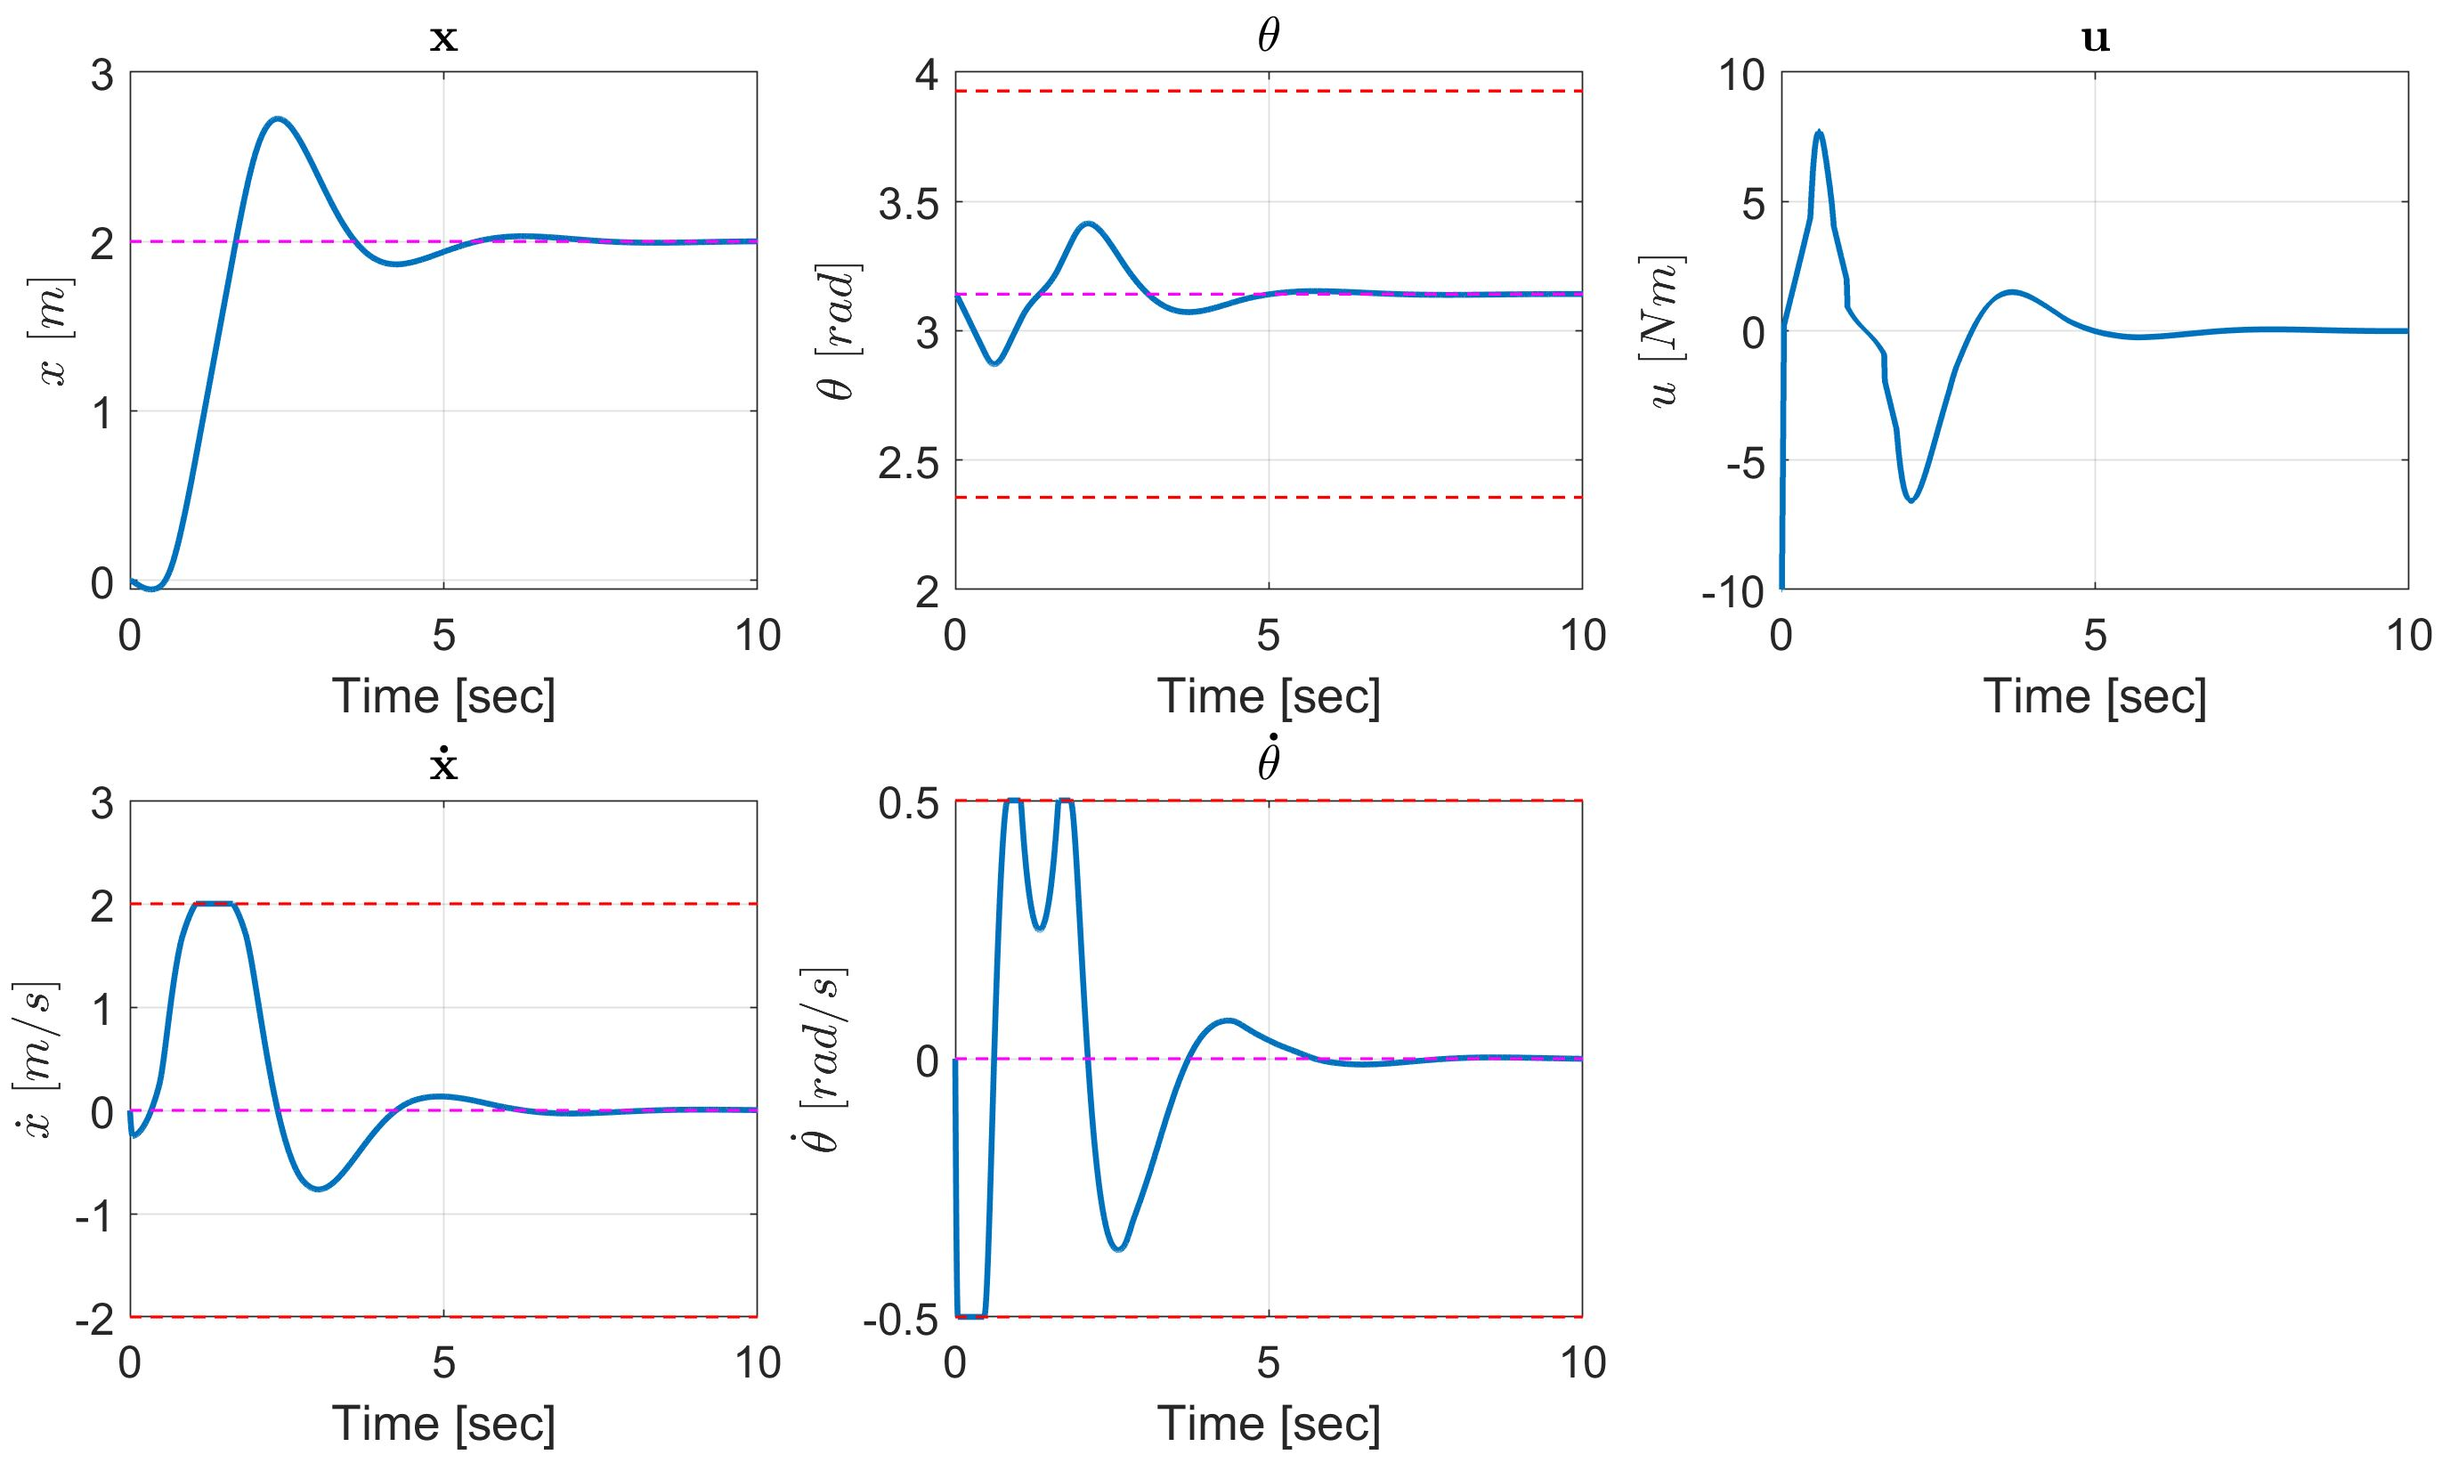
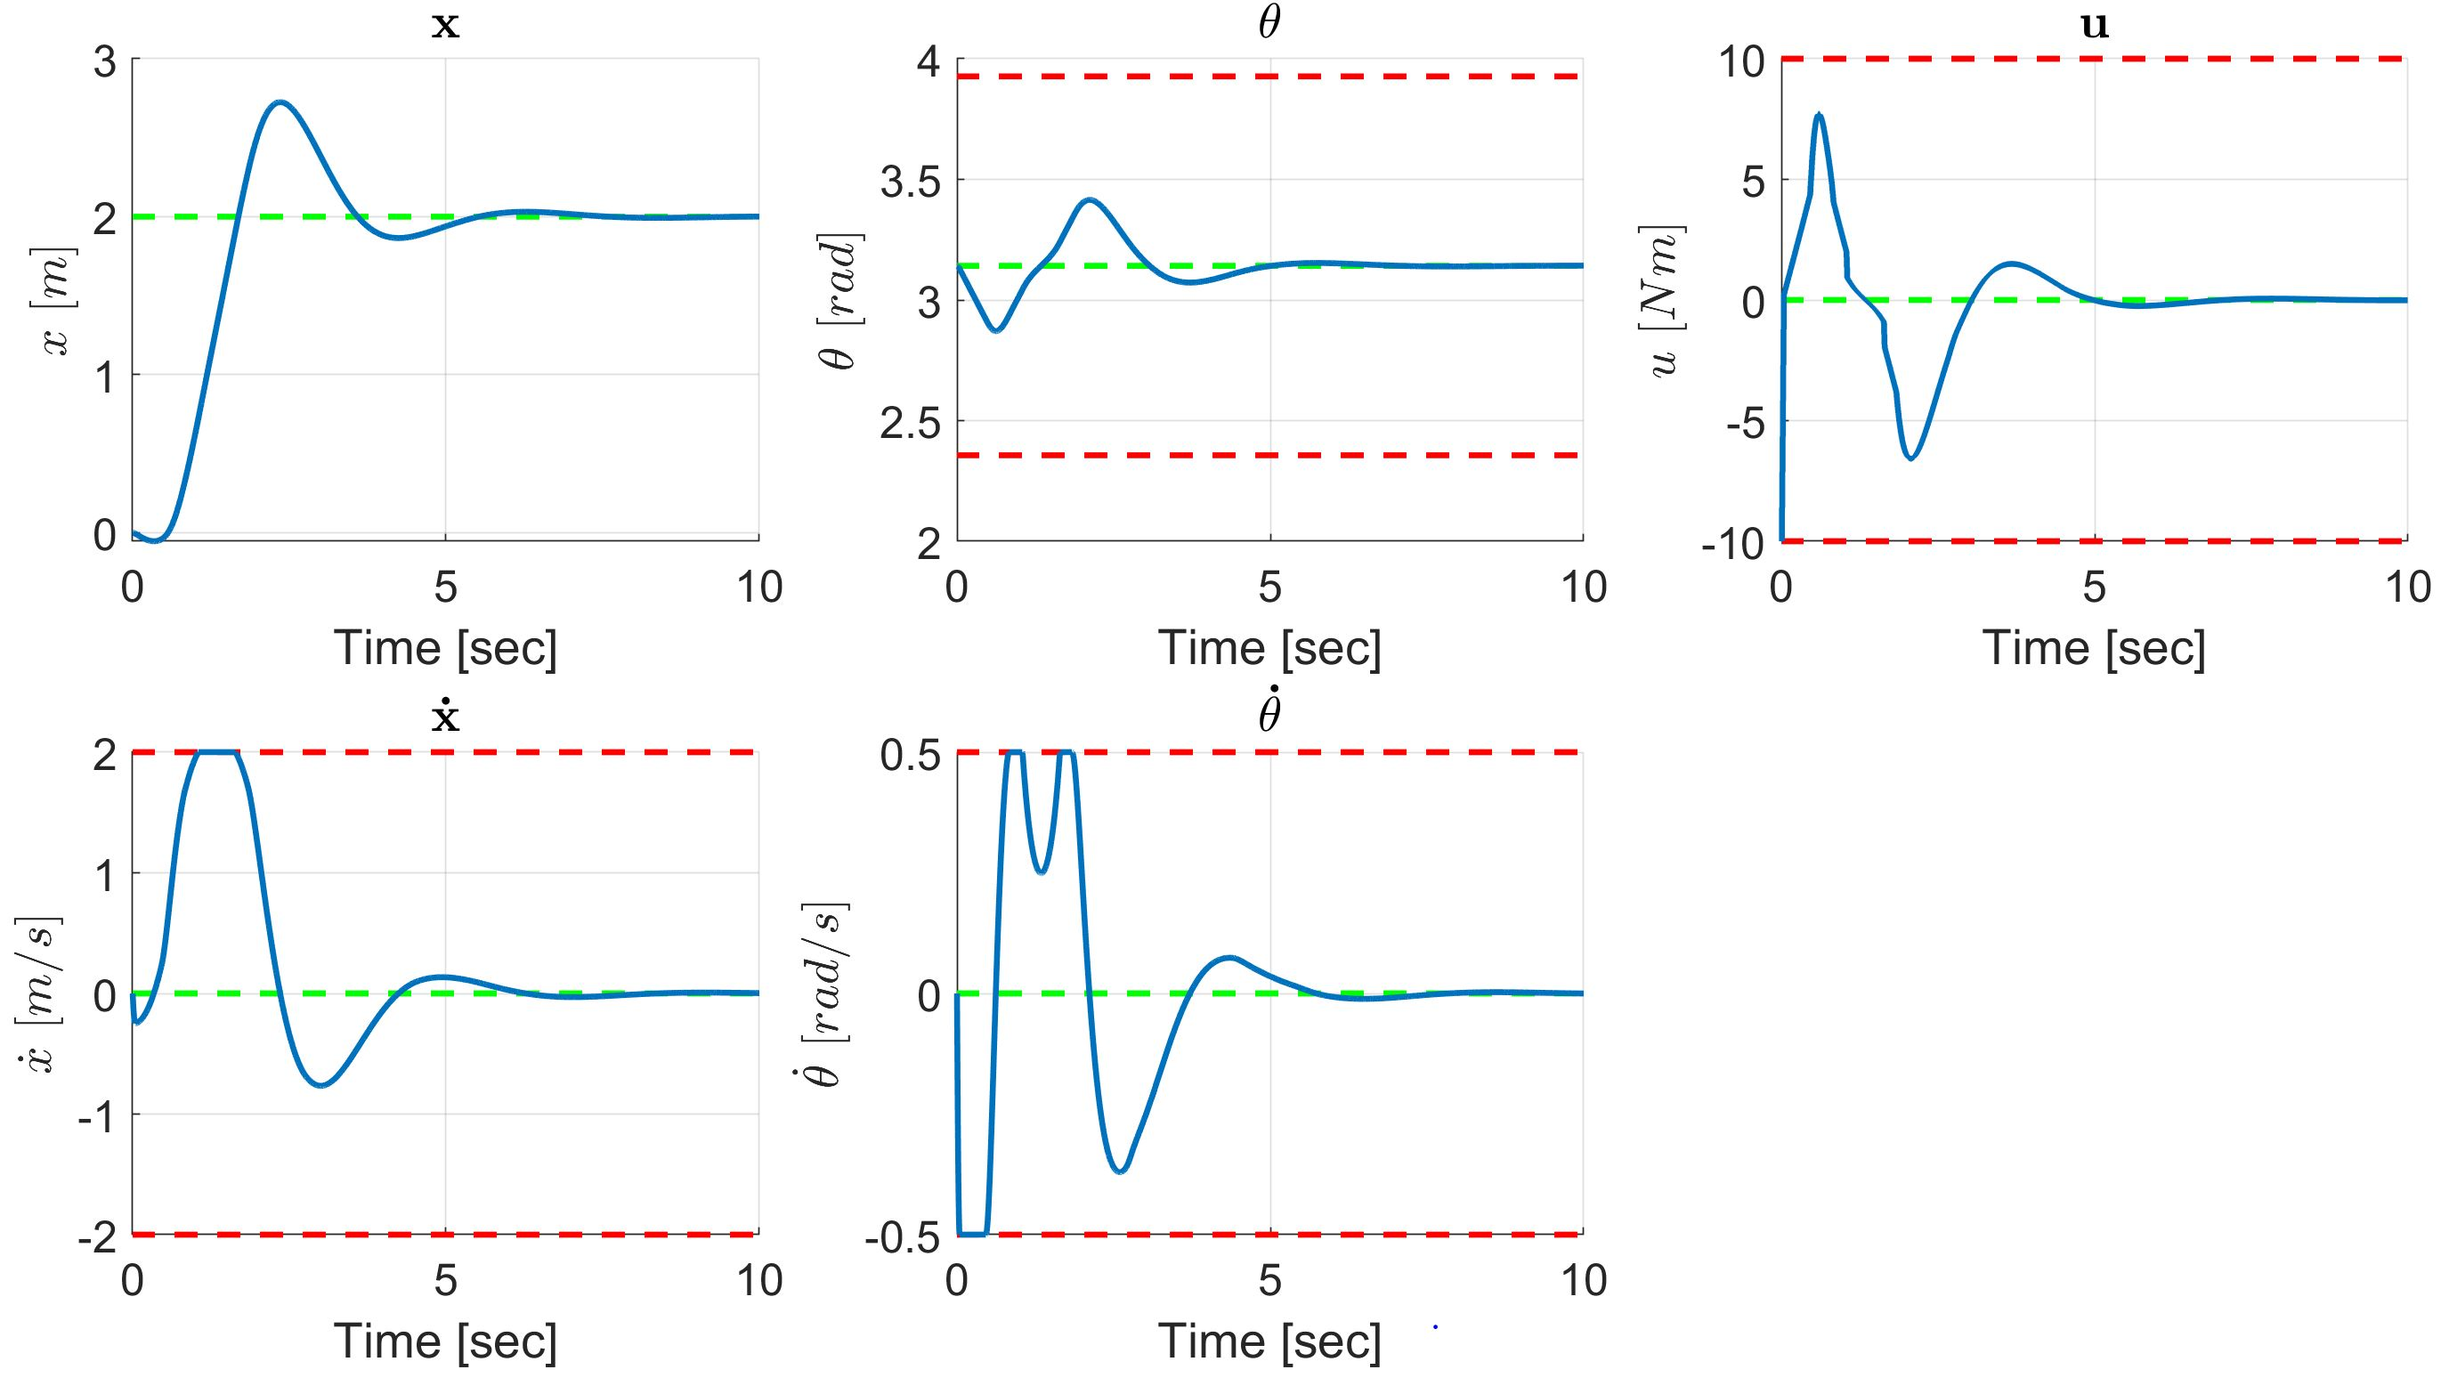
Fixed cartpole plots

diff --git a/mpc_code/cartpole/cartpole_trajectory_multishooting.m b/mpc_code/cartpole/cartpole_trajectory_multishooting.m
@@ -215,43 +215,45 @@ end
 
 if true
     sz = 15;
+    width = 2;
     figure
     subplot(2,3,1);
-    plot(t,x_traj(1,:),'LineWidth',2); title('$\mathbf{x}$','interpreter','latex','FontSize',sz); grid on;
-    hold on; plot(t(1:mpciter),X_REF_Original(1,1:mpciter),'LineStyle','-','color','m','LineWidth',1); xlim([0 sim_time]);
-    hold on; line([0 sim_time],[args.lbx(1) args.lbx(1)],'LineStyle','--','color','r','LineWidth',1);
-    hold on; line([0 sim_time],[args.ubx(1) args.ubx(1)],'LineStyle','--','color','r','LineWidth',1);
+    plot(t(1:mpciter),X_REF_Original(1,1:mpciter),'LineStyle','--','color','g','LineWidth',width); xlim([0 sim_time]);
+    hold on; line([0 sim_time],[args.lbx(1) args.lbx(1)],'LineStyle','--','color','r','LineWidth',width);
+    hold on; line([0 sim_time],[args.ubx(1) args.ubx(1)],'LineStyle','--','color','r','LineWidth',width);
+    hold on; plot(t,x_traj(1,:),'LineWidth',width,'color',[0, 0.4470, 0.7410]); title('$\mathbf{x}$','interpreter','latex','FontSize',sz); grid on;
     xlabel('Time [sec]'); ylabel('$x\ [m]$','interpreter','latex');
     set(gca,'FontSize',sz)
     
     subplot(2,3,2);
-    plot(t,x_traj(2,:),'LineWidth',2); title('$\mathbf{\theta}$','interpreter','latex','FontSize',sz); grid on;
-    hold on; plot(t(1:mpciter),X_REF_Original(2,1:mpciter),'LineStyle','-','color','m','LineWidth',1); xlim([0 sim_time]);
-    hold on; line([0 sim_time],[args.lbx(2) args.lbx(2)],'LineStyle','--','color','r','LineWidth',1)
-    hold on; line([0 sim_time],[args.ubx(2) args.ubx(2)],'LineStyle','--','color','r','LineWidth',1)
+    plot(t(1:mpciter),X_REF_Original(2,1:mpciter),'LineStyle','--','color','g','LineWidth',width); xlim([0 sim_time]);
+    hold on; line([0 sim_time],[args.lbx(2) args.lbx(2)],'LineStyle','--','color','r','LineWidth',width)
+    hold on; line([0 sim_time],[args.ubx(2) args.ubx(2)],'LineStyle','--','color','r','LineWidth',width)
+    hold on; plot(t,x_traj(2,:),'LineWidth',width,'color',[0, 0.4470, 0.7410]); title('$\mathbf{\theta}$','interpreter','latex','FontSize',sz); grid on;
     xlabel('Time [sec]');ylabel('$\theta\ [rad]$','interpreter','latex');
     set(gca,'FontSize',sz)
     
     subplot(2,3,4);
-    plot(t,x_traj(3,:),'LineWidth',2); title('$\mathbf{\dot{x}}$','interpreter','latex','FontSize',sz); grid on;
-    hold on; plot(t(1:mpciter),X_REF_Original(3,1:mpciter),'LineStyle','-','color','m','LineWidth',1); xlim([0 sim_time]);
-    hold on; line([0 sim_time],[args.lbx(3) args.lbx(3)],'LineStyle','--','color','r','LineWidth',1)
-    hold on; line([0 sim_time],[args.ubx(3) args.ubx(3)],'LineStyle','--','color','r','LineWidth',1)
+    plot(t(1:mpciter),X_REF_Original(3,1:mpciter),'LineStyle','--','color','g','LineWidth',width); xlim([0 sim_time]);
+    hold on; line([0 sim_time],[args.lbx(3) args.lbx(3)],'LineStyle','--','color','r','LineWidth',width)
+    hold on; line([0 sim_time],[args.ubx(3) args.ubx(3)],'LineStyle','--','color','r','LineWidth',width)
+    hold on; plot(t,x_traj(3,:),'LineWidth',width,'color',[0, 0.4470, 0.7410]); title('$\mathbf{\dot{x}}$','interpreter','latex','FontSize',sz); grid on;
     xlabel('Time [sec]'); ylabel('$\dot{x}\ [m/s]$','interpreter','latex');
     set(gca,'FontSize',sz)
     
     subplot(2,3,5);
-    plot(t,x_traj(4,:),'LineWidth',2); title('$\mathbf{\dot{\theta}}$','interpreter','latex','FontSize',sz); grid on;
-    hold on; plot(t(1:mpciter),X_REF_Original(4,1:mpciter),'LineStyle','-','color','m','LineWidth',1); xlim([0 sim_time]);
-    hold on; line([0 sim_time],[args.lbx(4) args.lbx(4)],'LineStyle','--','color','r','LineWidth',1)
-    hold on; line([0 sim_time],[args.ubx(4) args.ubx(4)],'LineStyle','--','color','r','LineWidth',1)
+    plot(t(1:mpciter),X_REF_Original(4,1:mpciter),'LineStyle','--','color','g','LineWidth',width); xlim([0 sim_time]);
+    hold on; line([0 sim_time],[args.lbx(4) args.lbx(4)],'LineStyle','--','color','r','LineWidth',width)
+    hold on; line([0 sim_time],[args.ubx(4) args.ubx(4)],'LineStyle','--','color','r','LineWidth',width)
+    hold on; plot(t,x_traj(4,:),'LineWidth',width,'color',[0, 0.4470, 0.7410]); title('$\mathbf{\dot{\theta}}$','interpreter','latex','FontSize',sz); grid on;
     xlabel('Time [sec]'); ylabel('$\dot{\theta}\ [rad/s]$','interpreter','latex');
     set(gca,'FontSize',sz);
     
     subplot(2,3,3);
-    stairs(t(1:end-1),u_cl,'LineWidth',2); title('$\mathbf{u}$','interpreter','latex','FontSize',sz); grid on;
-    hold on; plot(t(1:mpciter),U_REF_Original(1,1:mpciter),'LineStyle','-','color','m','LineWidth',1)
-    hold on; line([0 sim_time],[args.ubx(5) args.ubx(5)],'LineStyle','--','color','r','LineWidth',1)
+    plot(t(1:mpciter),U_REF_Original(1,1:mpciter),'LineStyle','--','color','g','LineWidth',width)
+    hold on; line([0 sim_time],[u_min u_min],'LineStyle','--','color','r','LineWidth',width)
+    hold on; line([0 sim_time],[u_max u_max],'LineStyle','--','color','r','LineWidth',width)
+    hold on; stairs(t(1:end-1),u_cl,'LineWidth',width,'color',[0, 0.4470, 0.7410]); title('$\mathbf{u}$','interpreter','latex','FontSize',sz); grid on;
     xlabel('Time [sec]'); ylabel('$u\ [Nm]$','interpreter','latex');
     set(gca,'FontSize',sz)
     set(gcf,'color','w');

diff --git a/mpc_code/cartpole/cartpole_regulator_multishooting.m b/mpc_code/cartpole/cartpole_regulator_multishooting.m
@@ -182,41 +182,43 @@ end
 if true
     figure
     subplot(2,3,1);
-    plot(t,x_traj(1,:),'LineWidth',2); title('$\mathbf{x}$','interpreter','latex','FontSize',sz); grid on;
-    hold on; line([0 sim_time],[xs(1) xs(1)],'LineStyle','--','color','m','LineWidth',1); xlim([0 sim_time]);
-    hold on; line([0 sim_time],[args.lbx(1) args.lbx(1)],'LineStyle','--','color','r','LineWidth',1);
-    hold on; line([0 sim_time],[args.ubx(1) args.ubx(1)],'LineStyle','--','color','r','LineWidth',1);
+    line([0 sim_time],[xs(1) xs(1)],'LineStyle','--','color','g','LineWidth',2); xlim([0 sim_time]);
+    hold on; line([0 sim_time],[args.lbx(1) args.lbx(1)],'LineStyle','--','color','r','LineWidth',2);
+    hold on; line([0 sim_time],[args.ubx(1) args.ubx(1)],'LineStyle','--','color','r','LineWidth',2);
+    hold on; plot(t,x_traj(1,:),'LineWidth',2); title('$\mathbf{x}$','interpreter','latex','FontSize',sz); grid on;
     xlabel('Time [sec]'); ylabel('$x\ [m]$','interpreter','latex');
     set(gca,'FontSize',sz)
     
     subplot(2,3,2);
-    plot(t,x_traj(2,:),'LineWidth',2); title('$\mathbf{\theta}$','interpreter','latex','FontSize',sz); grid on;
-    hold on; line([0 sim_time],[xs(2) xs(2)],'LineStyle','--','color','m','LineWidth',1); xlim([0 sim_time]);
-    hold on; line([0 sim_time],[args.lbx(2) args.lbx(2)],'LineStyle','--','color','r','LineWidth',1)
-    hold on; line([0 sim_time],[args.ubx(2) args.ubx(2)],'LineStyle','--','color','r','LineWidth',1)
+    line([0 sim_time],[xs(2) xs(2)],'LineStyle','--','color','g','LineWidth',2); xlim([0 sim_time]);
+    hold on; line([0 sim_time],[args.lbx(2) args.lbx(2)],'LineStyle','--','color','r','LineWidth',2)
+    hold on; line([0 sim_time],[args.ubx(2) args.ubx(2)],'LineStyle','--','color','r','LineWidth',2)
+    hold on; plot(t,x_traj(2,:),'LineWidth',2); title('$\mathbf{\theta}$','interpreter','latex','FontSize',sz); grid on;
     xlabel('Time [sec]');ylabel('$\theta\ [rad]$','interpreter','latex');
     set(gca,'FontSize',sz)
     
     subplot(2,3,4);
-    plot(t,x_traj(3,:),'LineWidth',2); title('$\mathbf{\dot{x}}$','interpreter','latex','FontSize',sz); grid on;
-    hold on; line([0 sim_time],[xs(3) xs(3)],'LineStyle','--','color','m','LineWidth',1); xlim([0 sim_time]);
-    hold on; line([0 sim_time],[args.lbx(3) args.lbx(3)],'LineStyle','--','color','r','LineWidth',1)
-    hold on; line([0 sim_time],[args.ubx(3) args.ubx(3)],'LineStyle','--','color','r','LineWidth',1)
+    line([0 sim_time],[xs(3) xs(3)],'LineStyle','--','color','g','LineWidth',2); xlim([0 sim_time]);
+    hold on; line([0 sim_time],[args.lbx(3) args.lbx(3)],'LineStyle','--','color','r','LineWidth',2)
+    hold on; line([0 sim_time],[args.ubx(3) args.ubx(3)],'LineStyle','--','color','r','LineWidth',2)
+    hold on; plot(t,x_traj(3,:),'LineWidth',2); title('$\mathbf{\dot{x}}$','interpreter','latex','FontSize',sz); grid on;
     xlabel('Time [sec]'); ylabel('$\dot{x}\ [m/s]$','interpreter','latex');
     set(gca,'FontSize',sz)
     
     subplot(2,3,5);
-    plot(t,x_traj(4,:),'LineWidth',2); title('$\mathbf{\dot{\theta}}$','interpreter','latex','FontSize',sz); grid on;
-    hold on; line([0 sim_time],[xs(4) xs(4)],'LineStyle','--','color','m','LineWidth',1); xlim([0 sim_time]);
-    hold on; line([0 sim_time],[args.lbx(4) args.lbx(4)],'LineStyle','--','color','r','LineWidth',1)
-    hold on; line([0 sim_time],[args.ubx(4) args.ubx(4)],'LineStyle','--','color','r','LineWidth',1)
+    line([0 sim_time],[xs(4) xs(4)],'LineStyle','--','color','g','LineWidth',2); xlim([0 sim_time]);
+    hold on; line([0 sim_time],[args.lbx(4) args.lbx(4)],'LineStyle','--','color','r','LineWidth',2)
+    hold on; line([0 sim_time],[args.ubx(4) args.ubx(4)],'LineStyle','--','color','r','LineWidth',2)
+    hold on; plot(t,x_traj(4,:),'LineWidth',2); title('$\mathbf{\dot{\theta}}$','interpreter','latex','FontSize',sz); grid on;
     xlabel('Time [sec]'); ylabel('$\dot{\theta}\ [rad/s]$','interpreter','latex');
     set(gca,'FontSize',sz);
     
     subplot(2,3,3);
-    stairs(t(1:end-1),u_cl,'LineWidth',2); title('$\mathbf{u}$','interpreter','latex','FontSize',sz); grid on;
-    hold on; line([0 sim_time],[args.lbx(5) args.lbx(5)],'LineStyle','--','color','r','LineWidth',1)
-    hold on; line([0 sim_time],[args.ubx(5) args.ubx(5)],'LineStyle','--','color','r','LineWidth',1)
+    line([0 sim_time],[0 0],'LineStyle','--','color','g','LineWidth',2); xlim([0 sim_time]);
+    hold on; line([0 sim_time],[u_min u_min],'LineStyle','--','color','r','LineWidth',2)
+    hold on; line([0 sim_time],[u_max u_max],'LineStyle','--','color','r','LineWidth',2)
+    hold on;stairs(t(1:end-1),u_cl,'LineWidth',2); title('$\mathbf{u}$','interpreter','latex','FontSize',sz); grid on;
+    
     xlabel('Time [sec]'); ylabel('$u\ [Nm]$','interpreter','latex');
     set(gca,'FontSize',sz)
     set(gcf,'color','w');
